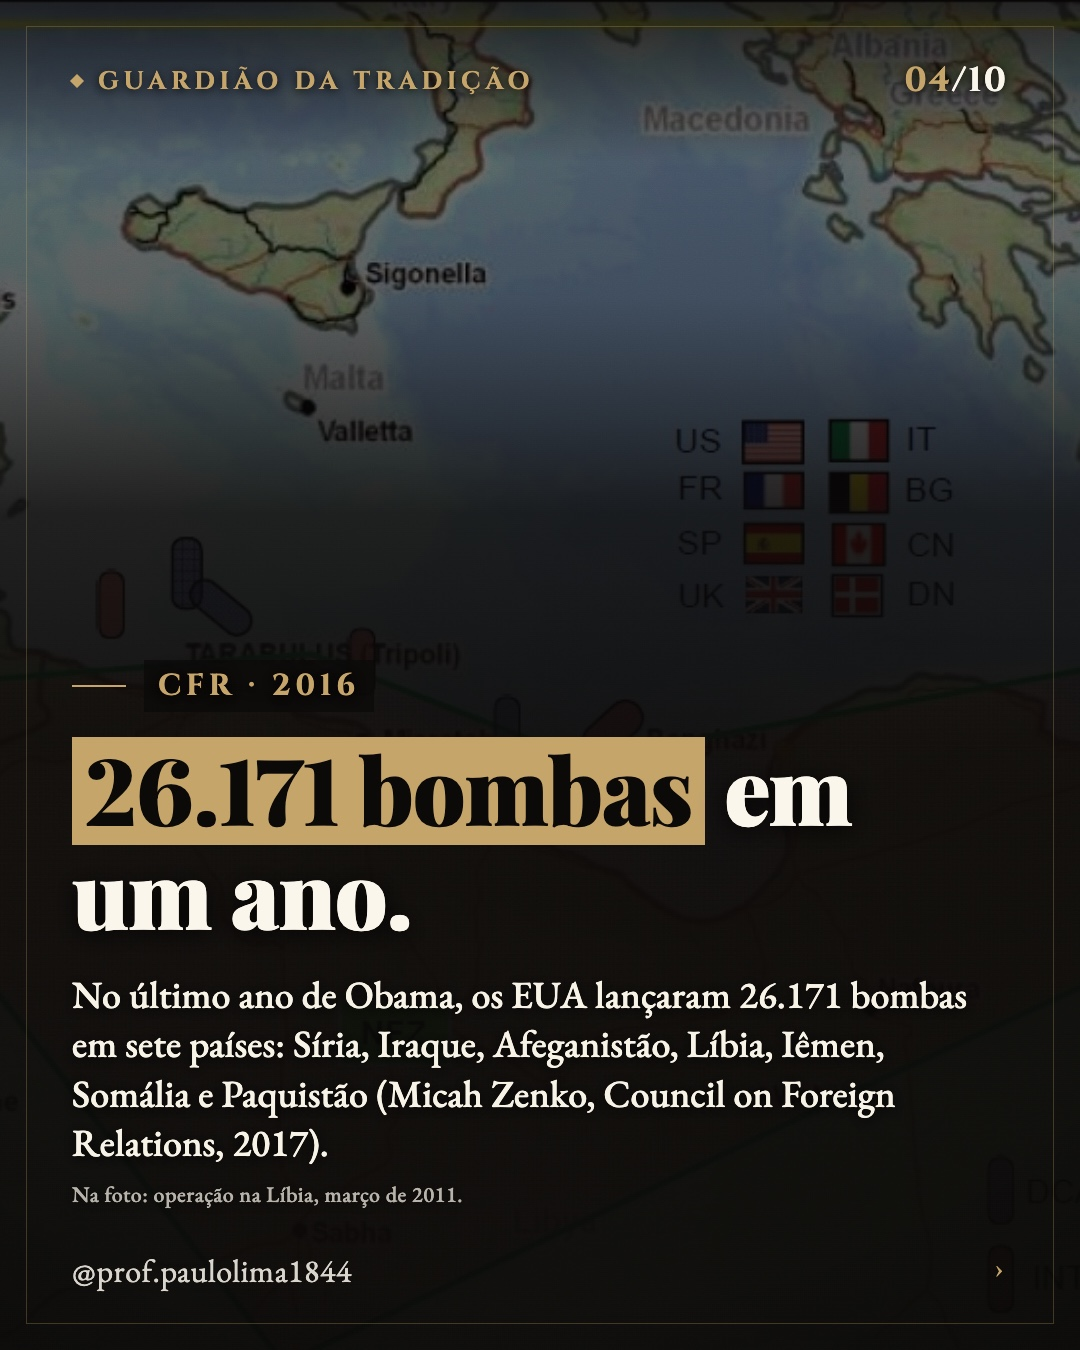
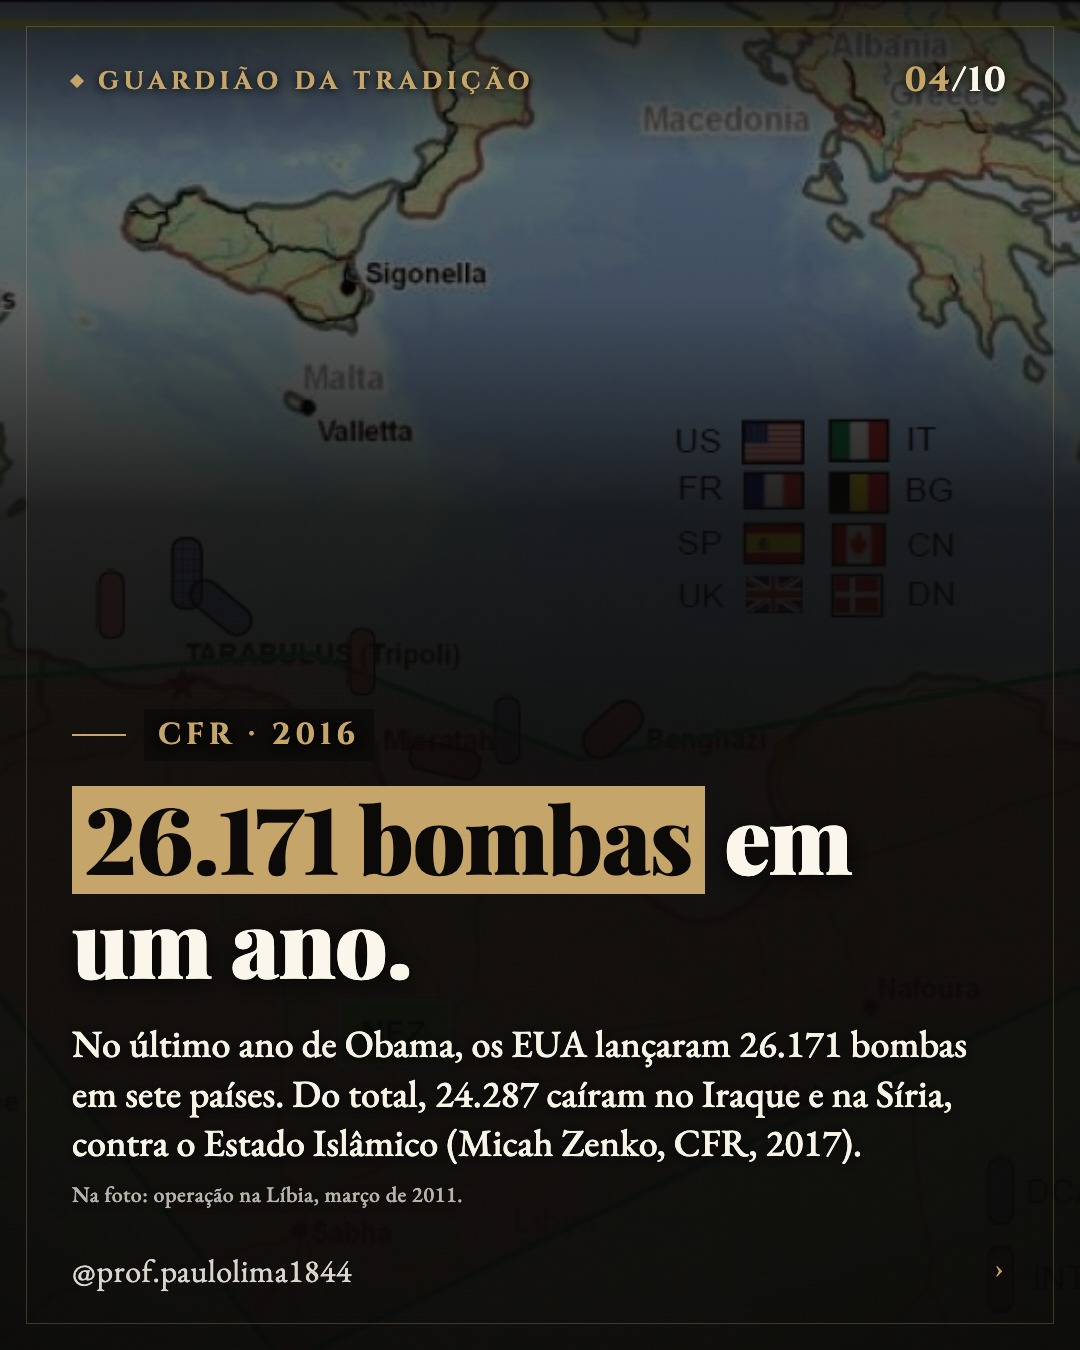
18/10 18h30: G338 Obama corrigido (sem Lula, Heaney & Rojas, livro certo, 24.287/26.171) com vídeo sem destaques car338V_03b.mp4, OK do Paulo; 18/10 com 3 carrosséis (7h30 G294, 14h G280, 18h30 G338)

Changed region(s): [[0.0611, 0.4978, 0.8861, 0.8711]]

diff --git a/decidir.py b/decidir.py
@@ -45,7 +45,7 @@ ESPECIAIS = {
         # 19h14: Gramsci forçado a pedido do Paulo; 21h: mais um (DIR1).
         # 07/10/2026: Paulo pediu o carrossel da democracia (DEM1) às 19h; CPV1 segue às 20h (intervalo do dia: 55 min).
         date(2026, 10, 13): ([7.5, 11.5, 15.5, 21], timedelta(minutes=90), 4),
-        date(2026, 10, 18): ([7.5, 14], timedelta(minutes=90), 2),  # 18/10: G294 (vídeo) às 07h30 e G338 Obama (vídeo) às 14h, OK do Paulo 17/10
+        date(2026, 10, 18): ([7.5, 14, 18.5], timedelta(minutes=90), 3),  # 18/10: G294 (vídeo) 07h30, G280 Rivera 14h, G338 Obama (vídeo corrigido) 18h30, OK do Paulo 18/10
         date(2026, 10, 17): ([7, 12, 15, 17.5, 21.25], timedelta(minutes=90), 5),  # 17/10: Paulo pediu extras às 15h e 17h30  # ULTRA_ESTRATEGIA: 07h00, 12h30, 18h00, 21h15
         date(2026, 10, 16): ([7, 11.5, 15.5, 20], timedelta(minutes=90), 4),  # Paulo: 6x1 (SEIS1) às 7h00 em ponto  # Paulo: último carrossel às 21h (Reel R52 às 19h45)
         date(2026, 10, 12): ([7.5, 9, 14, 18, 21], timedelta(minutes=90), 5),  # JAN1 extra às 9h; Paulo quer o próximo às 14h
